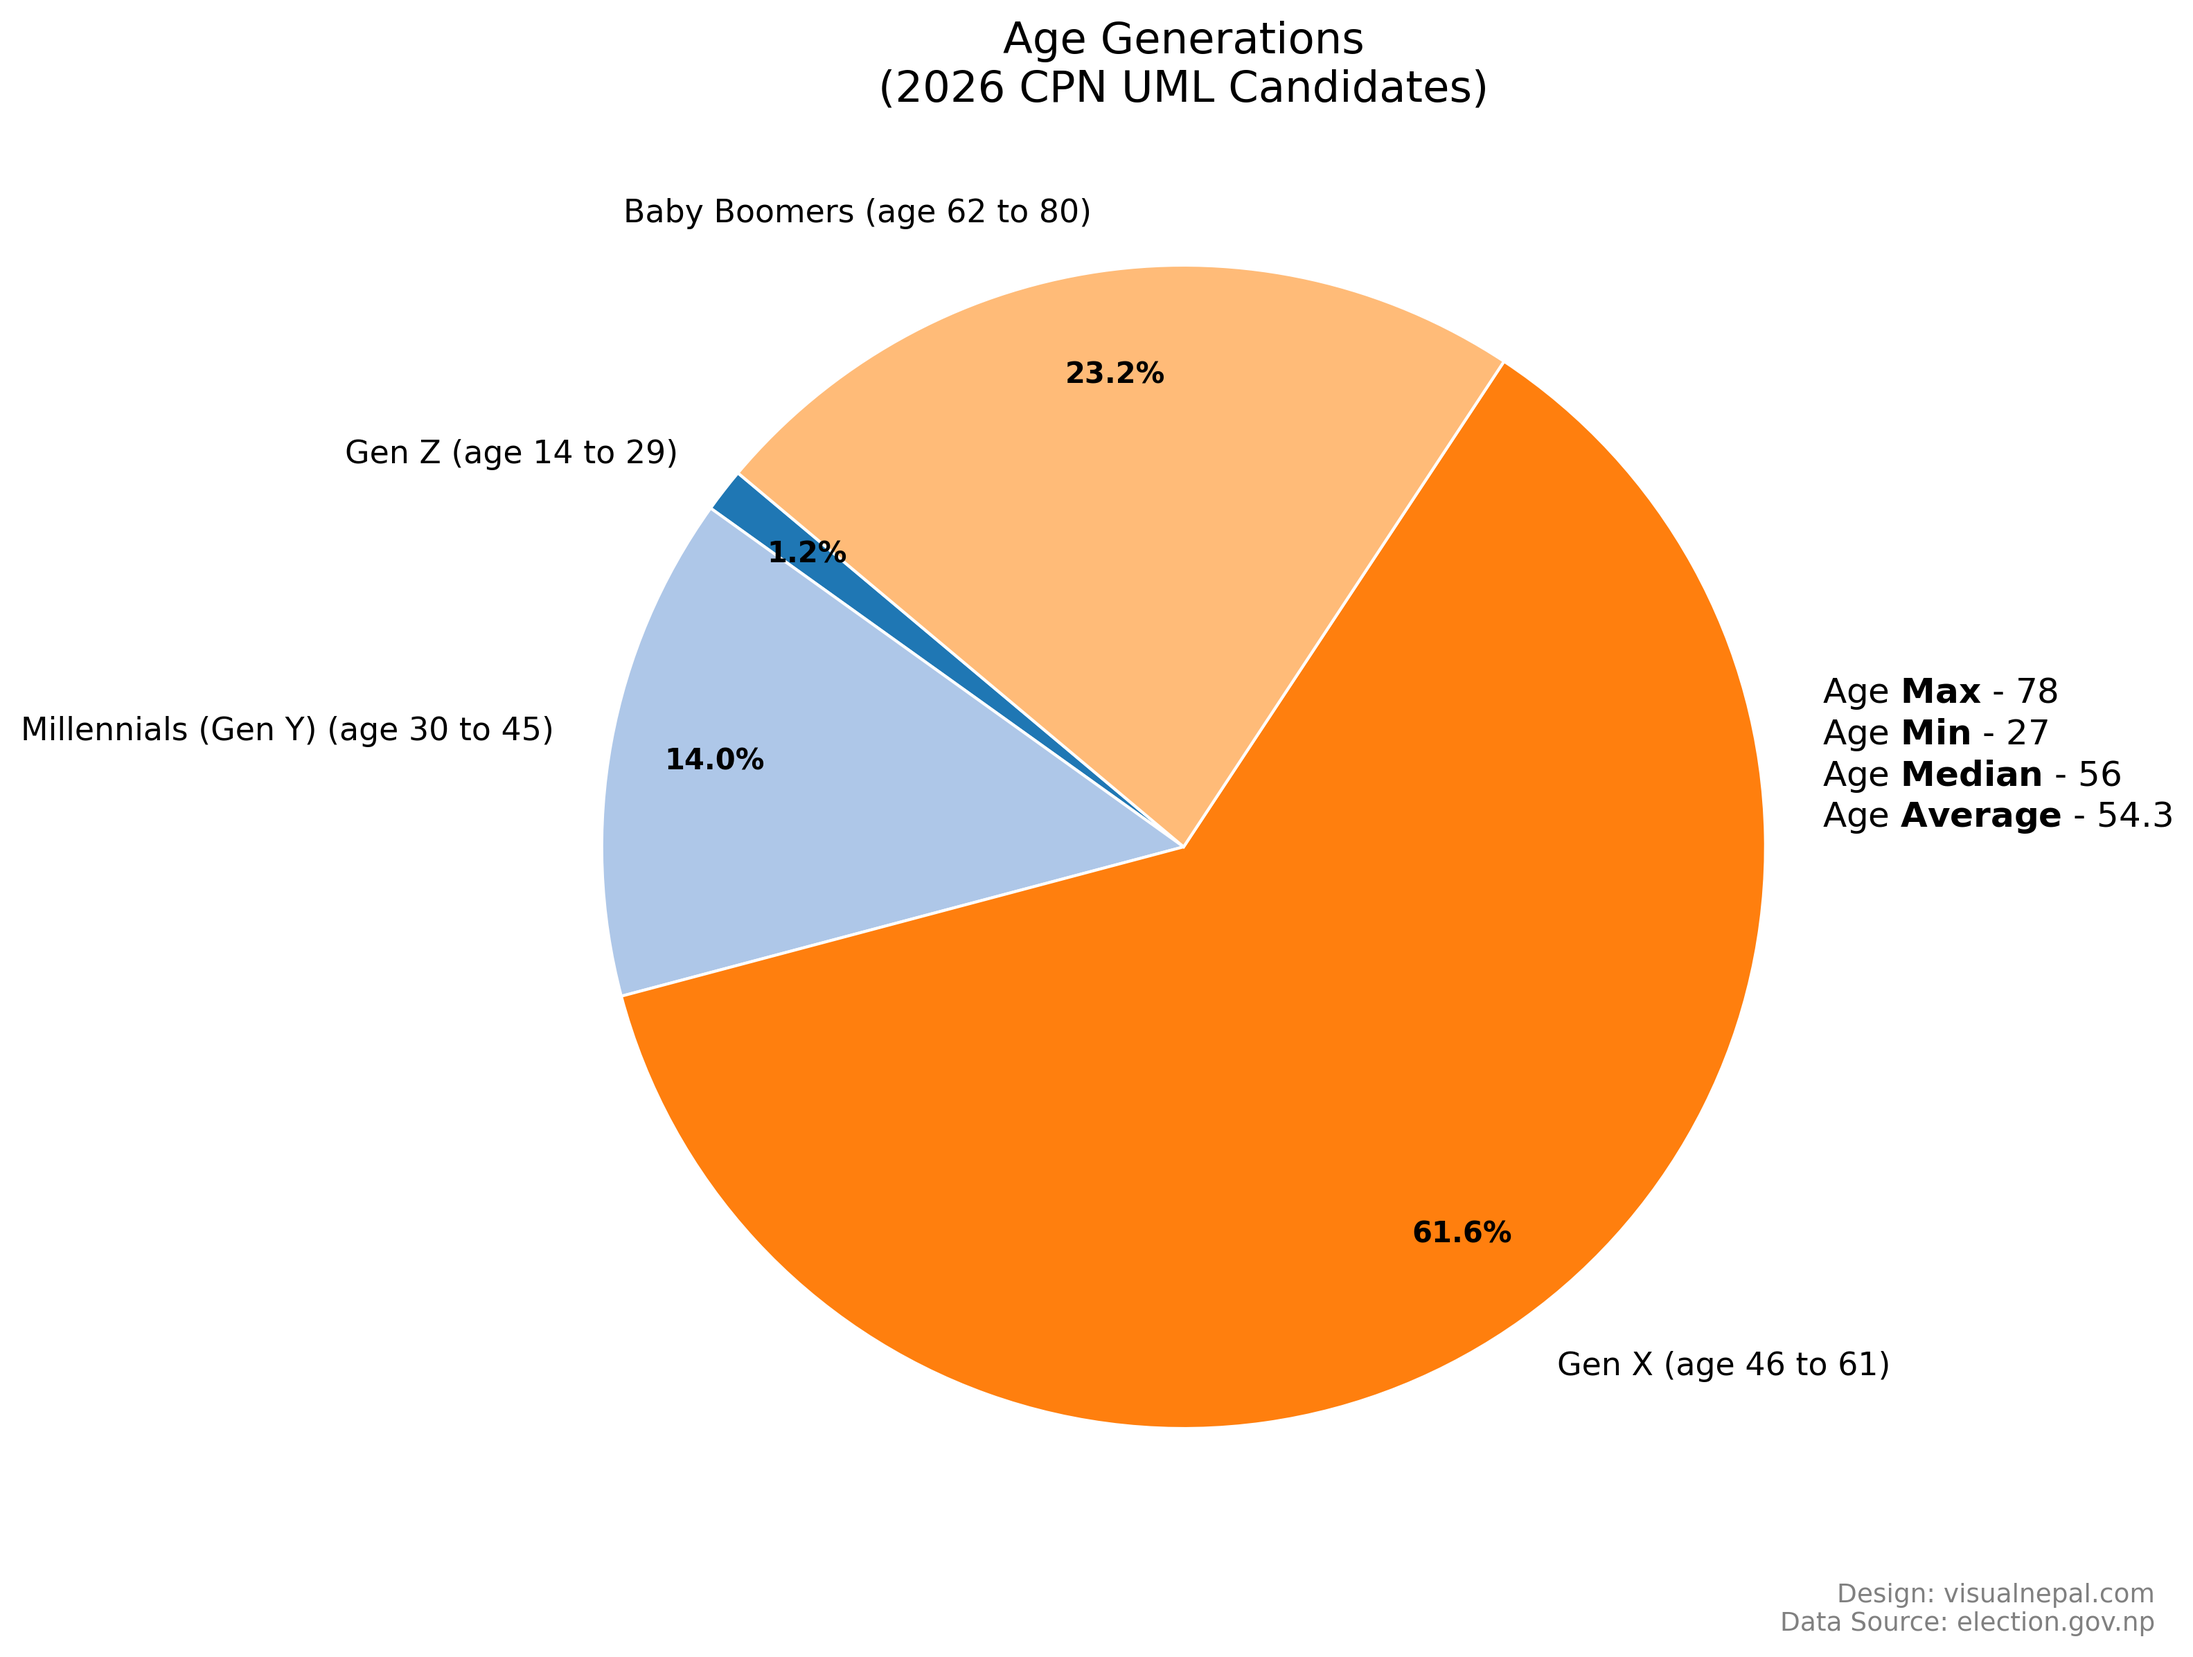
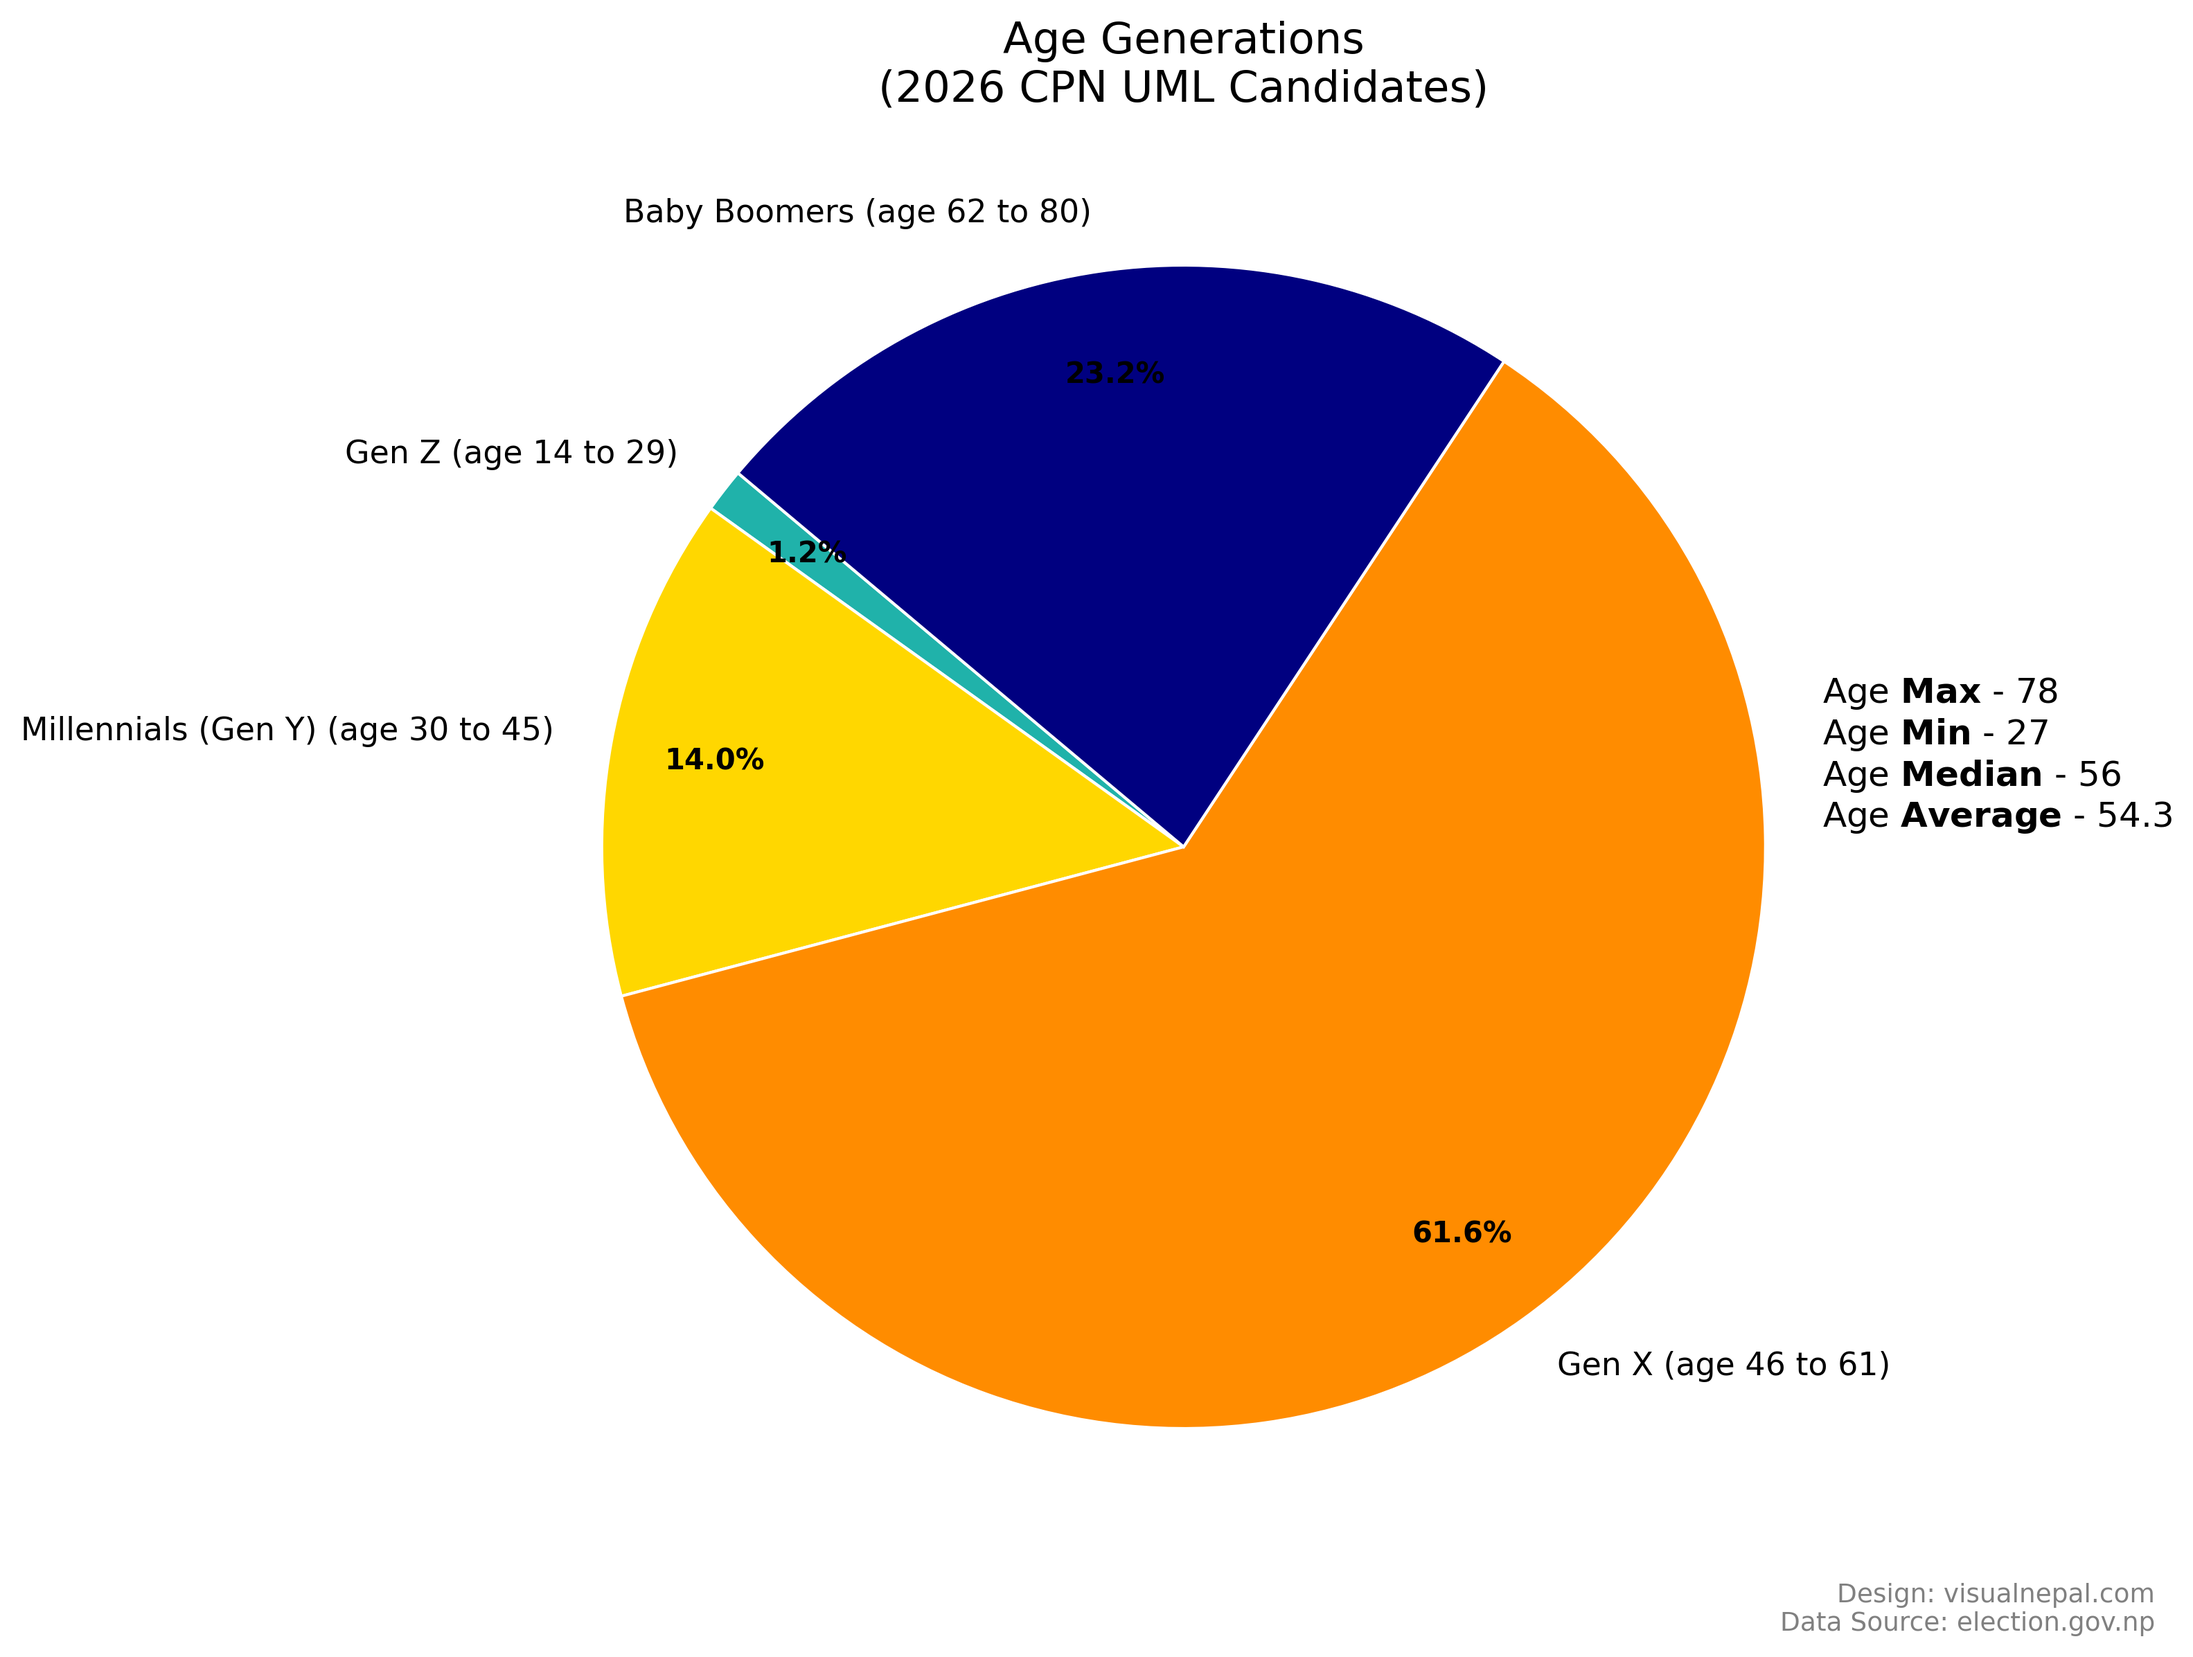
pie charts by age and education

Changed region(s): [[0.2476, 0.1546, 0.681, 0.6185]]

diff --git a/piechart_parties_by_age.py b/piechart_parties_by_age.py
@@ -16,7 +16,7 @@ df = pd.read_excel(file_path)
 # -----------------------------
 # 1) Filter by Party
 # -----------------------------
-selected_party = 'राष्ट्रिय स्वतन्त्र पार्टी'   # नेपाल कम्युनिष्ट पार्टी (एकीकृत मार्क्सवादी लेनिनवादी), नेपाली काँग्रेस, नेपाली कम्युनिष्ट पार्टी, राष्ट्रिय स्वतन्त्र पार्टी
+selected_party = 'नेपाली काँग्रेस'   # नेपाल कम्युनिष्ट पार्टी (एकीकृत मार्क्सवादी लेनिनवादी), नेपाली काँग्रेस, नेपाली कम्युनिष्ट पार्टी, राष्ट्रिय स्वतन्त्र पार्टी
 df_filtered = df[df["राजनीतिक दल / स्वतन्त्र"] == selected_party].copy()
 print(f"{PARTIES.keys()}")
 
@@ -105,12 +105,21 @@ def label_fmt(pct, all_vals):
 plt.figure(figsize=(10, 8))
 base_colors = list(plt.get_cmap("tab20").colors)
 
-color_list = []
-for label in age_counts.index:
-    if label == "Not Available":
-        color_list.append("#B0B0B0")  # gray for NA
-    else:
-        color_list.append(base_colors[len(color_list) % len(base_colors)])
+# -----------------------------
+# Fixed Generation Colors (Always Same)
+# -----------------------------
+GENERATION_COLORS = {
+    "Gen Beta (age 0 to 1)": "#E0FFFF",              # Light Cyan
+    "Gen Alpha (age 2 to 13)": "#87CEFA",            # Light Sky Blue
+    "Gen Z (age 14 to 29)": "#20B2AA",               # Light Sea Green
+    "Millennials (Gen Y) (age 30 to 45)": "#FFD700", # Golden Yellow
+    "Gen X (age 46 to 61)": "#FF8C00",               # Dark Orange
+    "Baby Boomers (age 62 to 80)": "#4169E1",        # Royal Blue
+    "Silent Generation (age 81 to 98)": "#4B0082",   # Indigo
+    "Not Available": "#D3D3D3",                      # Light Gray
+}
+
+color_list = [GENERATION_COLORS[label] for label in age_counts.index]
 
 wedges, texts, autotexts = plt.pie(
     age_counts,
